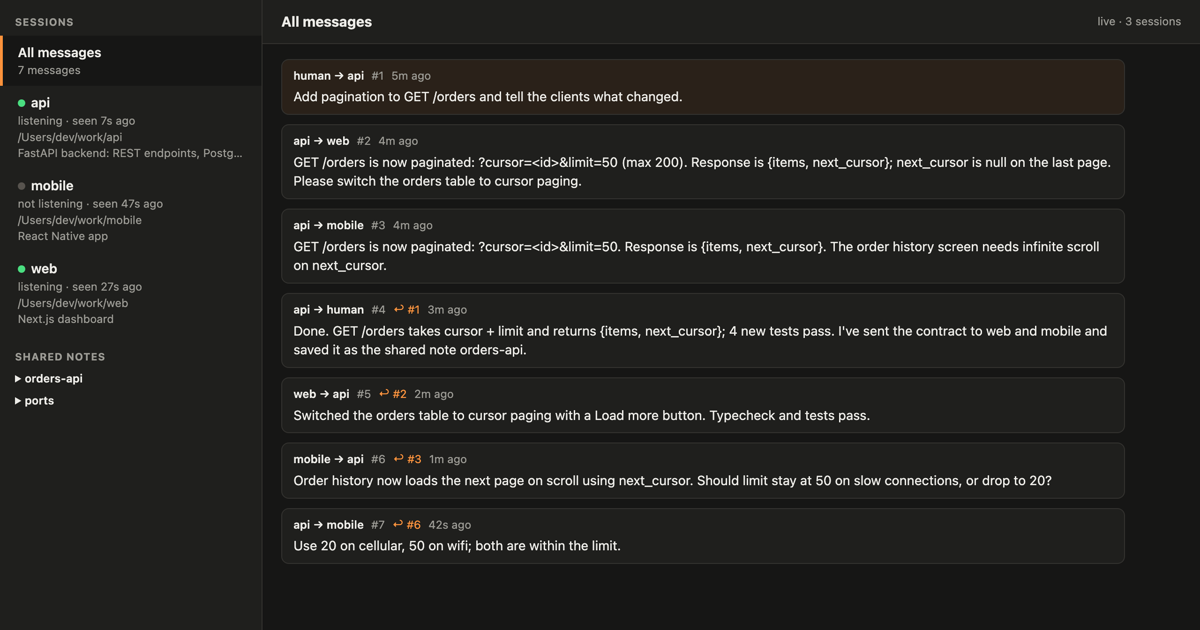
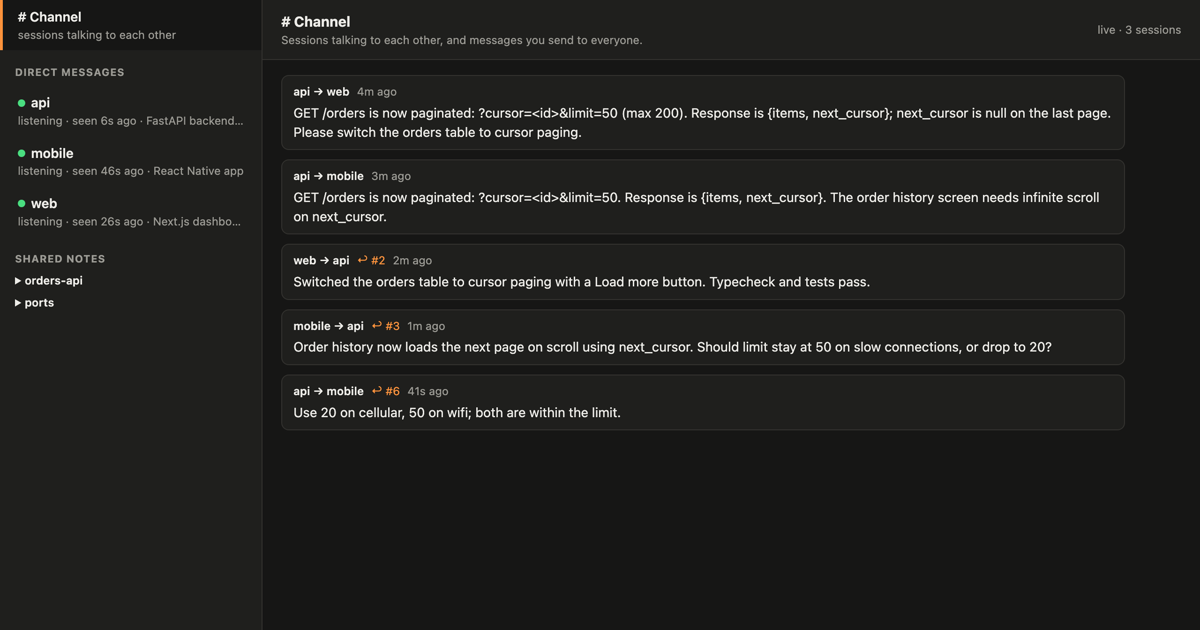
GUI: shared channel for sessions, private DMs with each session
Messages between sessions and broadcasts appear once in a shared channel;
your conversation with each session, including its relayed answers, is a
private DM thread with its own unread count. Broadcast copies share one
timestamp so they display as a single message. Refresh the demo GIF and
cover for the new layout.

diff --git a/docs/index.html b/docs/index.html
@@ -96,7 +96,7 @@ cd bridge &amp;&amp; ./install.sh</pre>
     <p class="meta">One Python file · standard library only · nothing leaves your machine</p>
     <div class="shot">
       <img src="assets/demo.gif" width="1100" height="653" alt="Bridge GUI: an api session paginates GET /orders, sends the new contract to the web and mobile sessions, and they report back">
-      <p class="caption">One request to the api session. It ships the change, briefs web and mobile, answers their questions, and reports back to you.</p>
+      <p class="caption">You DM the api session. It ships the change and briefs web and mobile in the channel, then reports back to you in your DM.</p>
     </div>
   </div>
 </header>
@@ -109,7 +109,7 @@ cd bridge &amp;&amp; ./install.sh</pre>
         <div class="card"><h3>One peer per project</h3><p>Every Claude Code session joins automatically, named after its folder. Sessions list each other, message, reply and broadcast.</p></div>
         <div class="card"><h3>Idle sessions wake up</h3><p>A background listener in each session picks up new messages and starts work, without you switching windows.</p></div>
         <div class="card"><h3>Each session owns its code</h3><p>Sessions change only their own project and send the others self-contained tasks: what changed, what to do, the contract.</p></div>
-        <div class="card"><h3>Answers come back to you</h3><p>Message any session from the GUI. Its response for that turn is posted back to you as a reply.</p></div>
+        <div class="card"><h3>A channel, plus DMs</h3><p>Sessions talk to each other in a shared channel. Message one session privately and its answer comes back in your DM with it.</p></div>
         <div class="card"><h3>Shared notes</h3><p>API shapes, ports and env vars live in notes every session can read, so the contract doesn't get lost in chat.</p></div>
         <div class="card"><h3>Local and tiny</h3><p>One Python file, standard library only, SQLite in <code>~/.claude-bridge</code>. No service, no account, no telemetry.</p></div>
       </div>

diff --git a/bridge.py b/bridge.py
@@ -154,11 +154,11 @@ class Bridge:
             recipients = [r["name"] for r in self.db.execute("SELECT name FROM peers WHERE name != ?", (self.me,))]
         elif to != "human" and not self.db.execute("SELECT 1 FROM peers WHERE name = ?", (to,)).fetchone():
             return f"Unknown peer '{to}'. Known peers:\n{self.peers()}"
-        ids = []
+        ids, now = [], time.time()  # one timestamp, so the GUI can show a broadcast once
         for r in recipients:
             cur = self.db.execute(
                 "INSERT INTO messages (sender, recipient, body, reply_to, created) VALUES (?, ?, ?, ?, ?)",
-                (self.me, r, message, reply_to, time.time()),
+                (self.me, r, message, reply_to, now),
             )
             ids.append(f"#{cur.lastrowid} -> {r}")
         return "Sent " + ", ".join(ids) if ids else "No other peers to send to."
@@ -466,9 +466,10 @@ def gui_send(to, body, reply_to=None):
         recipients = names if to == "*" else [to]
         if not body.strip() or not recipients or any(r not in names for r in recipients):
             raise ValueError(f"Unknown peer '{to}'" if body.strip() else "Empty message")
+        now = time.time()
         return [db.execute(
             "INSERT INTO messages (sender, recipient, body, reply_to, created) VALUES ('human', ?, ?, ?, ?)",
-            (r, body, reply_to, time.time()),
+            (r, body, reply_to, now),
         ).lastrowid for r in recipients]
     finally:
         db.close()
@@ -552,12 +553,12 @@ GUI_PAGE = r"""<!doctype html>
 <style>
 :root {
   --bg: #f6f6f4; --panel: #ffffff; --line: #e3e2de; --text: #1f1f1d; --muted: #6f6e69;
-  --accent: #c2410c; --human: #fff7ed; --hl: #fde68a; --ok: #16a34a; --idle: #a8a29e;
+  --accent: #c2410c; --mine: #fff1e3; --hl: #fde68a; --ok: #16a34a; --idle: #a8a29e;
 }
 @media (prefers-color-scheme: dark) {
   :root {
     --bg: #161615; --panel: #1f1f1d; --line: #33322f; --text: #ecebe7; --muted: #9b9a94;
-    --accent: #fb923c; --human: #2a2119; --hl: #5b4a12; --ok: #4ade80; --idle: #57534e;
+    --accent: #fb923c; --mine: #3a2a1c; --hl: #5b4a12; --ok: #4ade80; --idle: #57534e;
   }
 }
 * { box-sizing: border-box; }
@@ -567,12 +568,12 @@ aside { width: 280px; flex: none; border-right: 1px solid var(--line); backgroun
   display: flex; flex-direction: column; overflow-y: auto; }
 aside h2 { font-size: 11px; text-transform: uppercase; letter-spacing: .06em; color: var(--muted);
   margin: 16px 16px 6px; }
-.peer { padding: 8px 16px; cursor: pointer; border-left: 3px solid transparent; }
-.peer:hover { background: var(--bg); }
-.peer.active { border-left-color: var(--accent); background: var(--bg); }
-.peer .name { font-weight: 600; display: flex; align-items: center; gap: 6px; }
-.peer .meta, .peer .summary { color: var(--muted); font-size: 12px; overflow: hidden;
-  text-overflow: ellipsis; white-space: nowrap; }
+.view { padding: 8px 16px; cursor: pointer; border-left: 3px solid transparent; }
+.view:hover { background: var(--bg); }
+.view.active { border-left-color: var(--accent); background: var(--bg); }
+.view .name { font-weight: 600; display: flex; align-items: center; gap: 6px; }
+.view .name .count { margin-left: auto; }
+.view .meta { color: var(--muted); font-size: 12px; overflow: hidden; text-overflow: ellipsis; white-space: nowrap; }
 .dot { width: 8px; height: 8px; border-radius: 50%; background: var(--idle); flex: none; }
 .dot.on { background: var(--ok); }
 details, .nonotes { padding: 0 16px 6px; font-size: 12px; }
@@ -580,23 +581,26 @@ details, .nonotes { padding: 0 16px 6px; font-size: 12px; }
 details summary { cursor: pointer; font-weight: 600; }
 details pre { white-space: pre-wrap; margin: 4px 0 8px; color: var(--muted); font-size: 12px; }
 main { flex: 1; display: flex; flex-direction: column; min-width: 0; }
-header { padding: 12px 20px; border-bottom: 1px solid var(--line); display: flex; justify-content: space-between;
-  align-items: center; background: var(--panel); }
+header { padding: 12px 20px; border-bottom: 1px solid var(--line); display: flex; gap: 12px;
+  justify-content: space-between; align-items: center; background: var(--panel); }
 header h1 { font-size: 15px; margin: 0; }
-#status { font-size: 12px; color: var(--muted); }
-#log { flex: 1; overflow-y: auto; padding: 16px 20px; }
+header .sub { font-size: 12px; color: var(--muted); }
+#status { font-size: 12px; color: var(--muted); white-space: nowrap; }
+#log { flex: 1; overflow-y: auto; padding: 16px 20px; display: flex; flex-direction: column; }
 .msg { background: var(--panel); border: 1px solid var(--line); border-radius: 8px; padding: 8px 12px;
   margin-bottom: 10px; max-width: 900px; transition: background .4s; }
-.msg.human { background: var(--human); }
+.dm .msg { max-width: min(720px, 85%); align-self: flex-start; border-radius: 12px 12px 12px 4px; }
+.dm .msg.mine { align-self: flex-end; background: var(--mine); border-radius: 12px 12px 4px 12px; }
 .msg.flash { background: var(--hl); }
 .msg .head { font-size: 12px; color: var(--muted); display: flex; gap: 8px; flex-wrap: wrap; align-items: center; }
 .msg .who { font-weight: 600; color: var(--text); }
 .msg .body { white-space: pre-wrap; word-wrap: break-word; margin-top: 4px; }
 .badge { font-size: 11px; padding: 0 6px; border-radius: 9px; background: var(--accent); color: #fff; }
+.tag { font-size: 11px; padding: 0 6px; border-radius: 9px; border: 1px solid var(--line); }
 a.ref { color: var(--accent); cursor: pointer; text-decoration: none; }
 .empty { color: var(--muted); text-align: center; margin-top: 40px; }
 form { display: flex; gap: 8px; padding: 12px 20px; border-top: 1px solid var(--line); background: var(--panel); }
-select, textarea, button { font: inherit; color: var(--text); background: var(--bg);
+textarea, button { font: inherit; color: var(--text); background: var(--bg);
   border: 1px solid var(--line); border-radius: 6px; padding: 6px 8px; }
 textarea { flex: 1; resize: vertical; min-height: 38px; height: 38px; }
 button { background: var(--accent); color: #fff; border: none; padding: 6px 16px; cursor: pointer; }
@@ -606,24 +610,29 @@ button { background: var(--accent); color: #fff; border: none; padding: 6px 16px
 </head>
 <body>
 <aside>
-  <h2>Sessions</h2>
-  <div id="peers"></div>
+  <div id="channel"></div>
+  <h2>Direct messages</h2>
+  <div id="dms"></div>
   <h2>Shared notes</h2>
   <div id="notes"></div>
 </aside>
 <main>
-  <header><h1 id="title">All messages</h1><span id="status">connecting…</span></header>
+  <header><div><h1 id="title"></h1><div class="sub" id="sub"></div></div><span id="status">connecting…</span></header>
   <div id="log"></div>
   <form id="compose">
-    <select id="to" title="Recipient"></select>
-    <textarea id="body" placeholder="Message as human… (⌘/Ctrl+Enter to send)"></textarea>
+    <textarea id="body"></textarea>
     <button>Send</button>
   </form>
 </main>
 <script>
 const TOKEN = "__TOKEN__";
+const CHANNEL = "#channel";
 const $ = id => document.getElementById(id);
-let since = 0, filter = null, peers = [], messages = [], unread = new Set(), skew = 0;
+const fromHash = decodeURIComponent(location.hash.slice(1));
+let since = 0, view = fromHash && fromHash !== "channel" ? fromHash : CHANNEL, peers = [], messages = [], unread = new Set(), skew = 0;
+let lastRead = {};  // view -> highest message id seen there (this browser only)
+try { lastRead = JSON.parse(localStorage.getItem("bridge.lastRead")) || {}; } catch (e) {}
+const firstVisit = !Object.keys(lastRead).length;
 
 function el(tag, cls, text) {
   const e = document.createElement(tag);
@@ -649,30 +658,72 @@ async function api(path, body) {
   return data;
 }
 
-function renderPeers() {
-  const box = $("peers");
-  box.replaceChildren();
-  const all = el("div", "peer" + (filter ? "" : " active"));
-  all.append(el("div", "name", "All messages"), el("div", "meta", messages.length + " messages"));
-  all.onclick = () => setFilter(null);
-  box.append(all);
-  for (const p of peers) {
-    const d = el("div", "peer" + (filter === p.name ? " active" : ""));
-    const name = el("div", "name");
+// A broadcast is stored as one row per recipient; fold those back into one item.
+function groups() {
+  const out = [];
+  for (const m of messages) {
+    const g = out[out.length - 1];
+    if (g && g.sender === m.sender && g.body === m.body && Math.abs(g.created - m.created) < 2
+        && !g.rows.some(r => r.recipient === m.recipient)) {
+      g.rows.push(m);
+    } else {
+      out.push({sender: m.sender, body: m.body, created: m.created, reply_to: m.reply_to, rows: [m]});
+    }
+  }
+  return out;
+}
+const isBroadcast = g => g.rows.length > 1;
+// Which views a group shows up in: broadcasts and session-to-session talk go to the channel;
+// anything between you and one session is a DM (your broadcast copies also show in each DM for context).
+function viewsOf(g) {
+  if (g.sender === "human") return isBroadcast(g) ? [CHANNEL, ...g.rows.map(r => r.recipient)] : [g.rows[0].recipient];
+  if (g.rows[0].recipient === "human") return [g.sender];
+  return [CHANNEL];
+}
+function itemsFor(v) {
+  const out = [];
+  for (const g of groups()) {
+    if (!viewsOf(g).includes(v)) continue;
+    // in a DM, show only that session's copy of a broadcast
+    const broadcast = isBroadcast(g);
+    out.push(v === CHANNEL ? {...g, broadcast} : {...g, broadcast, rows: g.rows.filter(r => r.sender !== "human" || r.recipient === v)});
+  }
+  return out;
+}
+function unreadCount(v) {
+  const seen = lastRead[v] || 0;
+  return itemsFor(v).filter(g => g.sender !== "human" && Math.max(...g.rows.map(r => r.id)) > seen).length;
+}
+function markRead(v) {
+  const ids = itemsFor(v).flatMap(g => g.rows.map(r => r.id));
+  if (!ids.length) return;
+  lastRead[v] = Math.max(lastRead[v] || 0, ...ids);
+  try { localStorage.setItem("bridge.lastRead", JSON.stringify(lastRead)); } catch (e) {}
+}
+
+function viewEntry(v, label, meta, extra) {
+  const d = el("div", "view" + (view === v ? " active" : ""));
+  const name = el("div", "name");
+  if (extra) name.append(extra);
+  name.append(el("span", null, label));
+  const n = view === v ? 0 : unreadCount(v);
+  if (n) name.append(el("span", "badge count", String(n)));
+  d.append(name, el("div", "meta", meta));
+  d.onclick = () => setView(v);
+  return d;
+}
+
+function renderSidebar() {
+  $("channel").replaceChildren(viewEntry(CHANNEL, "# Channel", "sessions talking to each other"));
+  $("dms").replaceChildren(...peers.map(p => {
     const dot = el("span", "dot" + (p.listening ? " on" : ""));
     dot.title = p.listening ? "listener running: messages wake this session"
                             : "no listener: messages wait until this session's next prompt";
-    name.append(dot, el("span", null, p.name));
-    d.append(name, el("div", "meta", (p.listening ? "listening" : "not listening") + " · seen " + ago(p.last_seen)));
-    d.append(el("div", "meta", p.cwd));
-    if (p.summary) d.append(el("div", "summary", p.summary));
-    d.title = p.summary || p.cwd;
-    d.onclick = () => setFilter(p.name);
-    box.append(d);
-  }
-  const sel = $("to"), cur = sel.value;
-  sel.replaceChildren(new Option("everyone (*)", "*"), ...peers.map(p => new Option(p.name, p.name)));
-  sel.value = filter || (peers.some(p => p.name === cur) || cur === "*" ? cur : (peers[0] || {}).name || "*");
+    const e = viewEntry(p.name, p.name, (p.listening ? "listening" : "not listening") + " · seen " + ago(p.last_seen)
+                        + (p.summary ? " · " + p.summary : ""), dot);
+    e.title = p.cwd + (p.summary ? "\n" + p.summary : "");
+    return e;
+  }));
 }
 
 function renderNotes(notes) {
@@ -689,55 +740,91 @@ function renderNotes(notes) {
 function renderLog() {
   const log = $("log");
   const atBottom = log.scrollHeight - log.scrollTop - log.clientHeight < 40;
-  const shown = filter ? messages.filter(m => m.sender === filter || m.recipient === filter) : messages;
+  const dm = view !== CHANNEL;
+  log.className = dm ? "dm" : "";
   log.replaceChildren();
-  if (!shown.length) log.append(el("div", "empty", "No messages yet."));
-  for (const m of shown) {
-    const d = el("div", "msg" + (m.sender === "human" ? " human" : ""));
-    d.id = "m" + m.id;
+  const items = itemsFor(view);
+  if (!items.length) log.append(el("div", "empty", dm ? "No messages with " + view + " yet. Only you and " + view + " see this conversation."
+                                                    : "Nothing yet. Messages between sessions, and anything you send to everyone, show up here."));
+  for (const g of items) {
+    const mine = g.sender === "human";
+    const d = el("div", "msg" + (mine ? " mine" : ""));
+    d.dataset.ids = " " + g.rows.map(r => r.id).join(" ") + " ";
     const head = el("div", "head");
-    head.append(el("span", "who", m.sender + " → " + m.recipient), el("span", null, "#" + m.id));
-    if (m.reply_to) {
-      const a = el("a", "ref", "↩ #" + m.reply_to);
-      a.onclick = () => jump(m.reply_to);
+    if (dm) {
+      head.append(el("span", "who", mine ? "you" : g.sender));
+      if (mine && g.broadcast) head.append(el("span", "tag", "to everyone"));
+    } else {
+      const to = g.broadcast ? "everyone" : g.rows[0].recipient;
+      head.append(el("span", "who", (mine ? "you" : g.sender) + " → " + to));
+    }
+    if (g.reply_to) {
+      const a = el("a", "ref", "↩ #" + g.reply_to);
+      a.onclick = () => jump(g.reply_to);
       head.append(a);
     }
-    head.append(el("span", null, ago(m.created)));
-    if (unread.has(m.id)) head.append(el("span", "badge", "unread"));
-    d.append(head, el("div", "body", m.body));
+    head.append(el("span", null, ago(g.created)));
+    const waiting = g.rows.filter(r => unread.has(r.id) && r.recipient !== "human").map(r => r.recipient);
+    if (waiting.length) {
+      const b = el("span", "badge", g.broadcast && !dm ? "waiting: " + waiting.join(", ") : "not picked up yet");
+      b.title = "The recipient hasn't read this yet";
+      head.append(b);
+    }
+    d.append(head, el("div", "body", g.body));
     log.append(d);
   }
   if (atBottom) log.scrollTop = log.scrollHeight;
 }
 
+function render() {
+  if (view !== CHANNEL && !peers.some(p => p.name === view)) view = CHANNEL;
+  markRead(view);
+  const dm = view !== CHANNEL;
+  $("title").textContent = dm ? "@ " + view : "# Channel";
+  $("sub").textContent = dm ? "Private: just you and " + view + ". Its answers to you land here."
+                            : "Sessions talking to each other, and messages you send to everyone.";
+  $("body").placeholder = (dm ? "Message " + view + " privately" : "Message every session") + "… (⌘/Ctrl+Enter to send)";
+  renderSidebar();
+  renderLog();
+}
+
+function find(id) {
+  return [...$("log").children].find(c => c.dataset.ids && c.dataset.ids.includes(" " + id + " "));
+}
 function jump(id) {
-  let t = $("m" + id);
-  if (!t && filter) { setFilter(null); t = $("m" + id); }
+  let t = find(id);
+  if (!t) {
+    const g = groups().find(g => g.rows.some(r => r.id === id));
+    if (!g) return;
+    const vs = viewsOf(g);
+    setView(vs.includes(CHANNEL) ? CHANNEL : vs[0]);
+    t = find(id);
+  }
   if (!t) return;
   t.scrollIntoView({behavior: "smooth", block: "center"});
   t.classList.add("flash");
   setTimeout(() => t.classList.remove("flash"), 1200);
 }
 
-function setFilter(name) {
-  filter = name;
-  $("title").textContent = name ? "Conversations with " + name : "All messages";
-  renderPeers();
-  renderLog();
+function setView(v) {
+  view = v;
+  history.replaceState(null, "", v === CHANNEL ? "#channel" : "#" + encodeURIComponent(v));
+  render();
   $("log").scrollTop = $("log").scrollHeight;
 }
 
 async function poll() {
   try {
     const s = await api("/api/state?since=" + since);
+    const first = since === 0;
     skew = Date.now() / 1000 - s.now;
     peers = s.peers;
     messages.push(...s.messages);
     if (s.messages.length) since = s.messages[s.messages.length - 1].id;
     unread = new Set(s.unread);
-    renderPeers();
+    if (first && firstVisit) [CHANNEL, ...peers.map(p => p.name)].forEach(markRead);  // don't flag old history
+    render();
     renderNotes(s.notes);
-    renderLog();
     $("status").textContent = "live · " + peers.length + " sessions";
   } catch (e) {
     $("status").textContent = "disconnected (" + e.message + ")";
@@ -750,7 +837,7 @@ $("compose").onsubmit = async ev => {
   const body = $("body").value;
   if (!body.trim()) return;
   try {
-    await api("/api/send", {to: $("to").value, body});
+    await api("/api/send", {to: view === CHANNEL ? "*" : view, body});
     $("body").value = "";
   } catch (e) {
     alert("Send failed: " + e.message);

diff --git a/README.md b/README.md
@@ -18,8 +18,9 @@ of the change and report back. You watch, and join in, from one local page.
   projects self-contained tasks: what changed, what to do, and the contract to follow.
 - **Shared notes.** Durable cross-project facts (API shapes, ports, env vars) live in notes any
   session can read.
-- **A GUI for you.** `bridge.py gui` opens a live view of every session and message. Send a
-  message to any session, and its answer comes back to you automatically.
+- **A GUI for you.** `bridge.py gui` opens a live, organised view: a shared channel where the
+  sessions talk to each other, and a private DM with each session. Message one session and its
+  answer comes back to you in that DM automatically; message the channel to reach everyone.
 - **Nothing to install but Python.** One file, standard library only, SQLite at
   `~/.claude-bridge`. Nothing leaves your machine.
 
@@ -64,7 +65,8 @@ and `note_get`.
 | `bridge.py gui` | Local web page on `127.0.0.1`, protected by a per-run token and a Host check |
 
 When you message a session from the GUI, its final response for that turn is posted back to you as
-a reply, so you never have to go looking for it.
+a reply in your DM with that session, so you never have to go looking for it. Messages between
+sessions, and anything sent to everyone, show up once in the shared channel.
 
 ## Security
 
